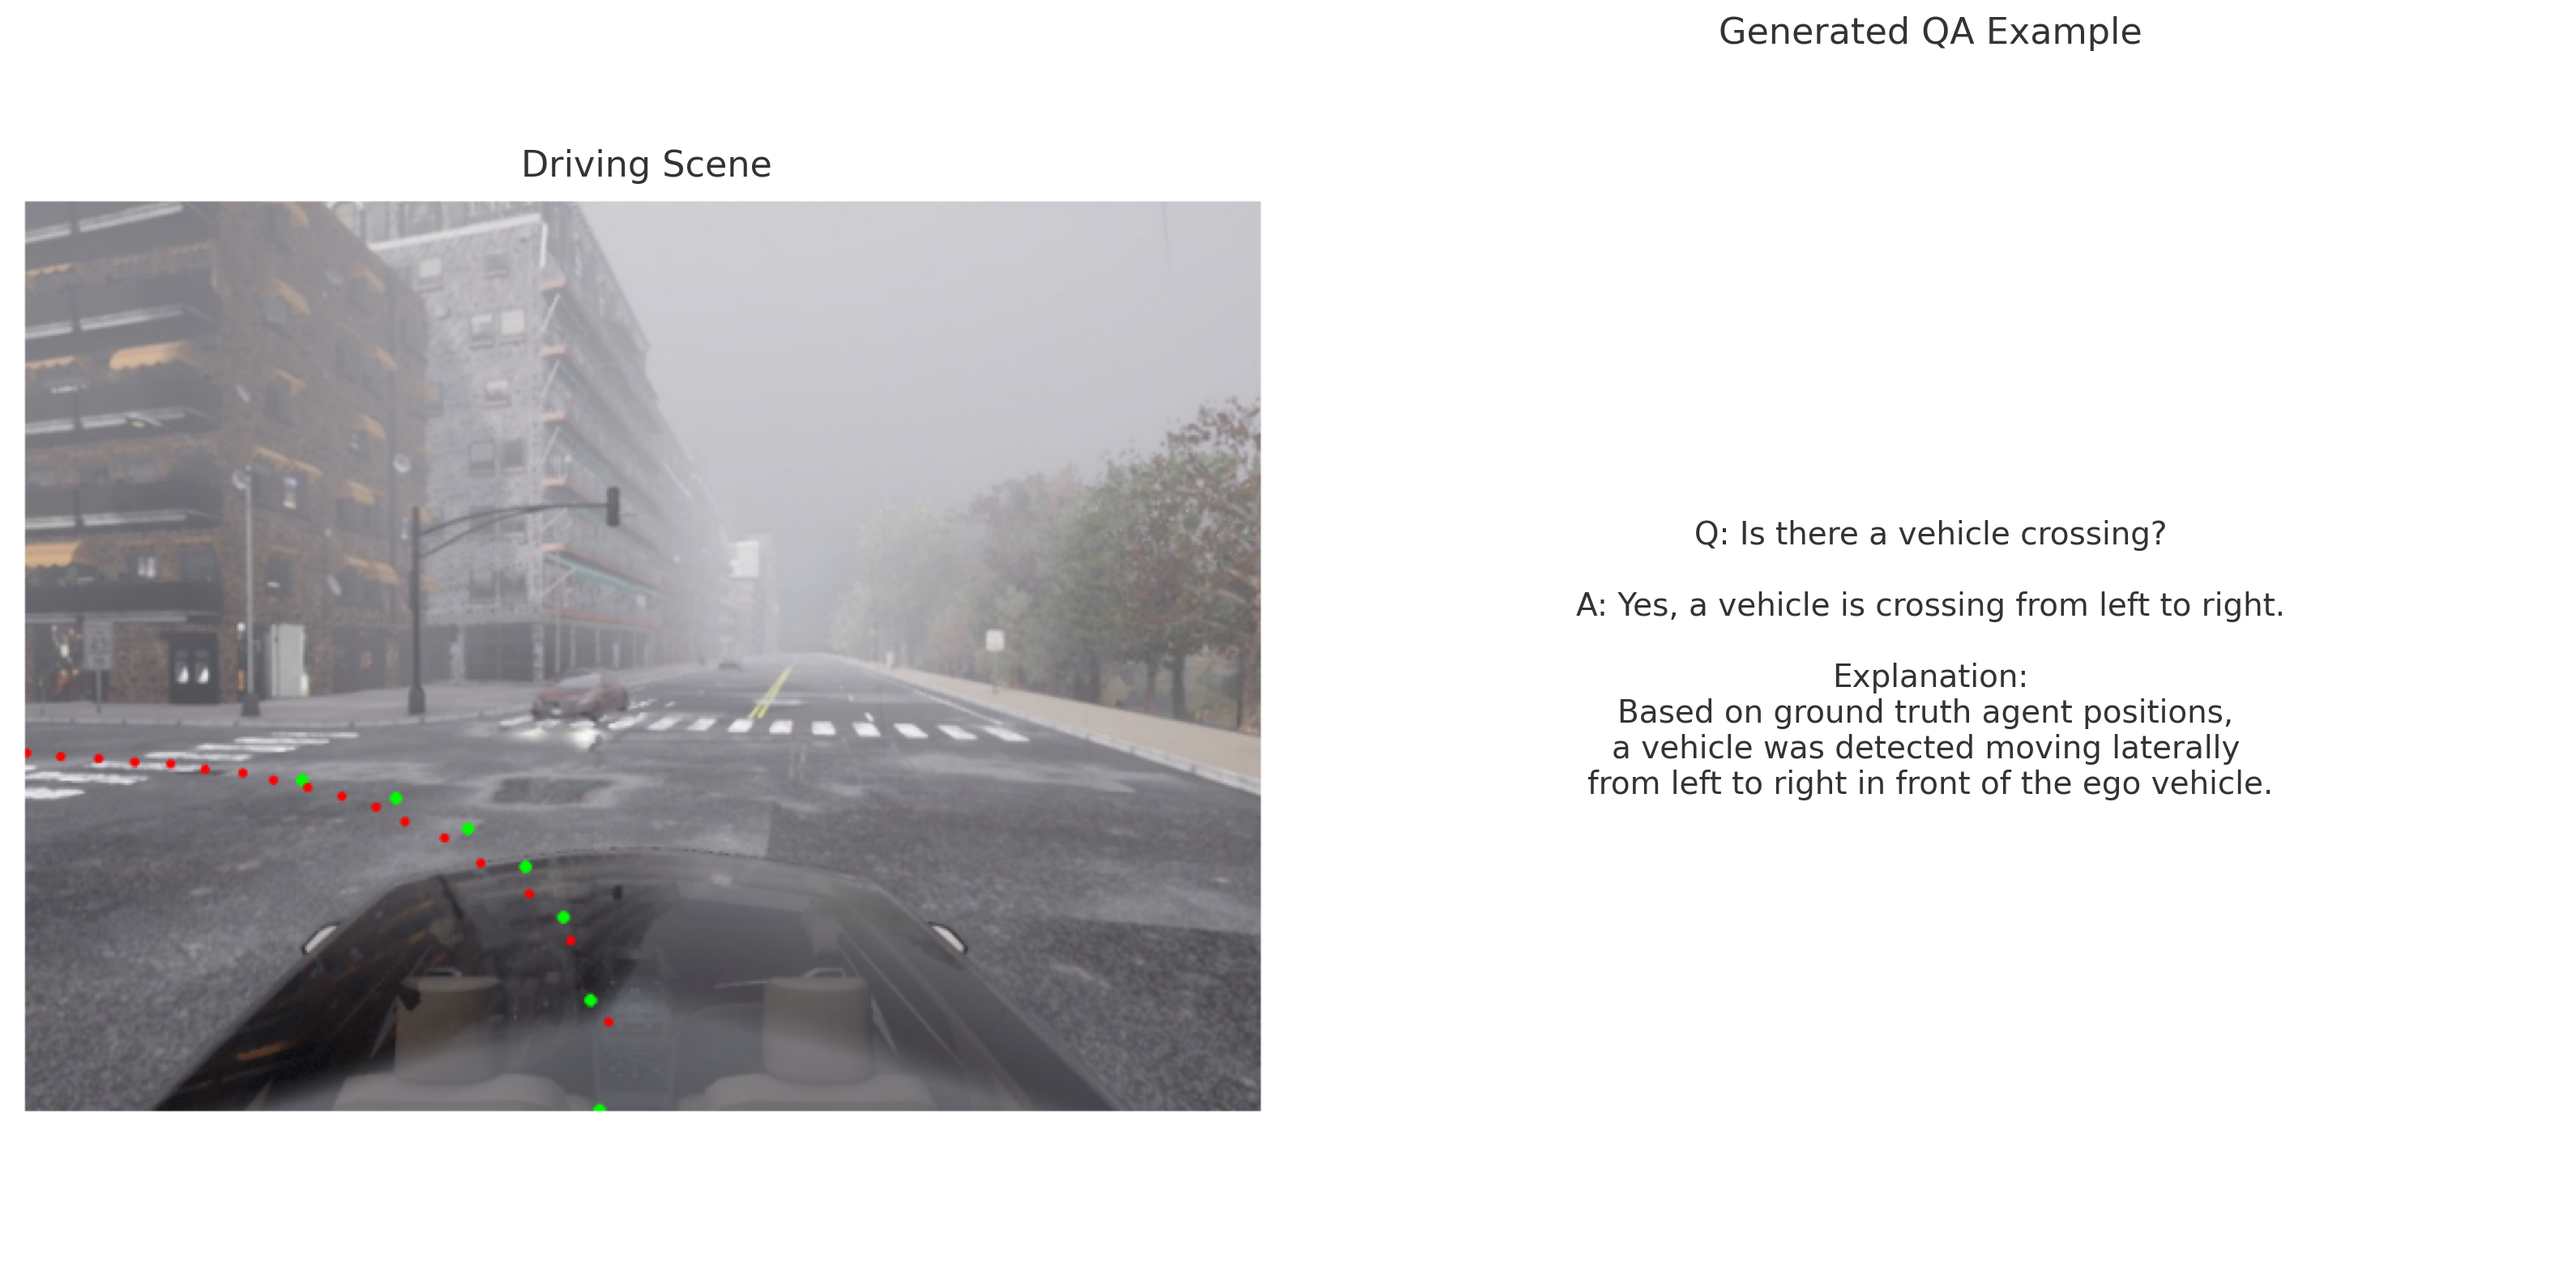
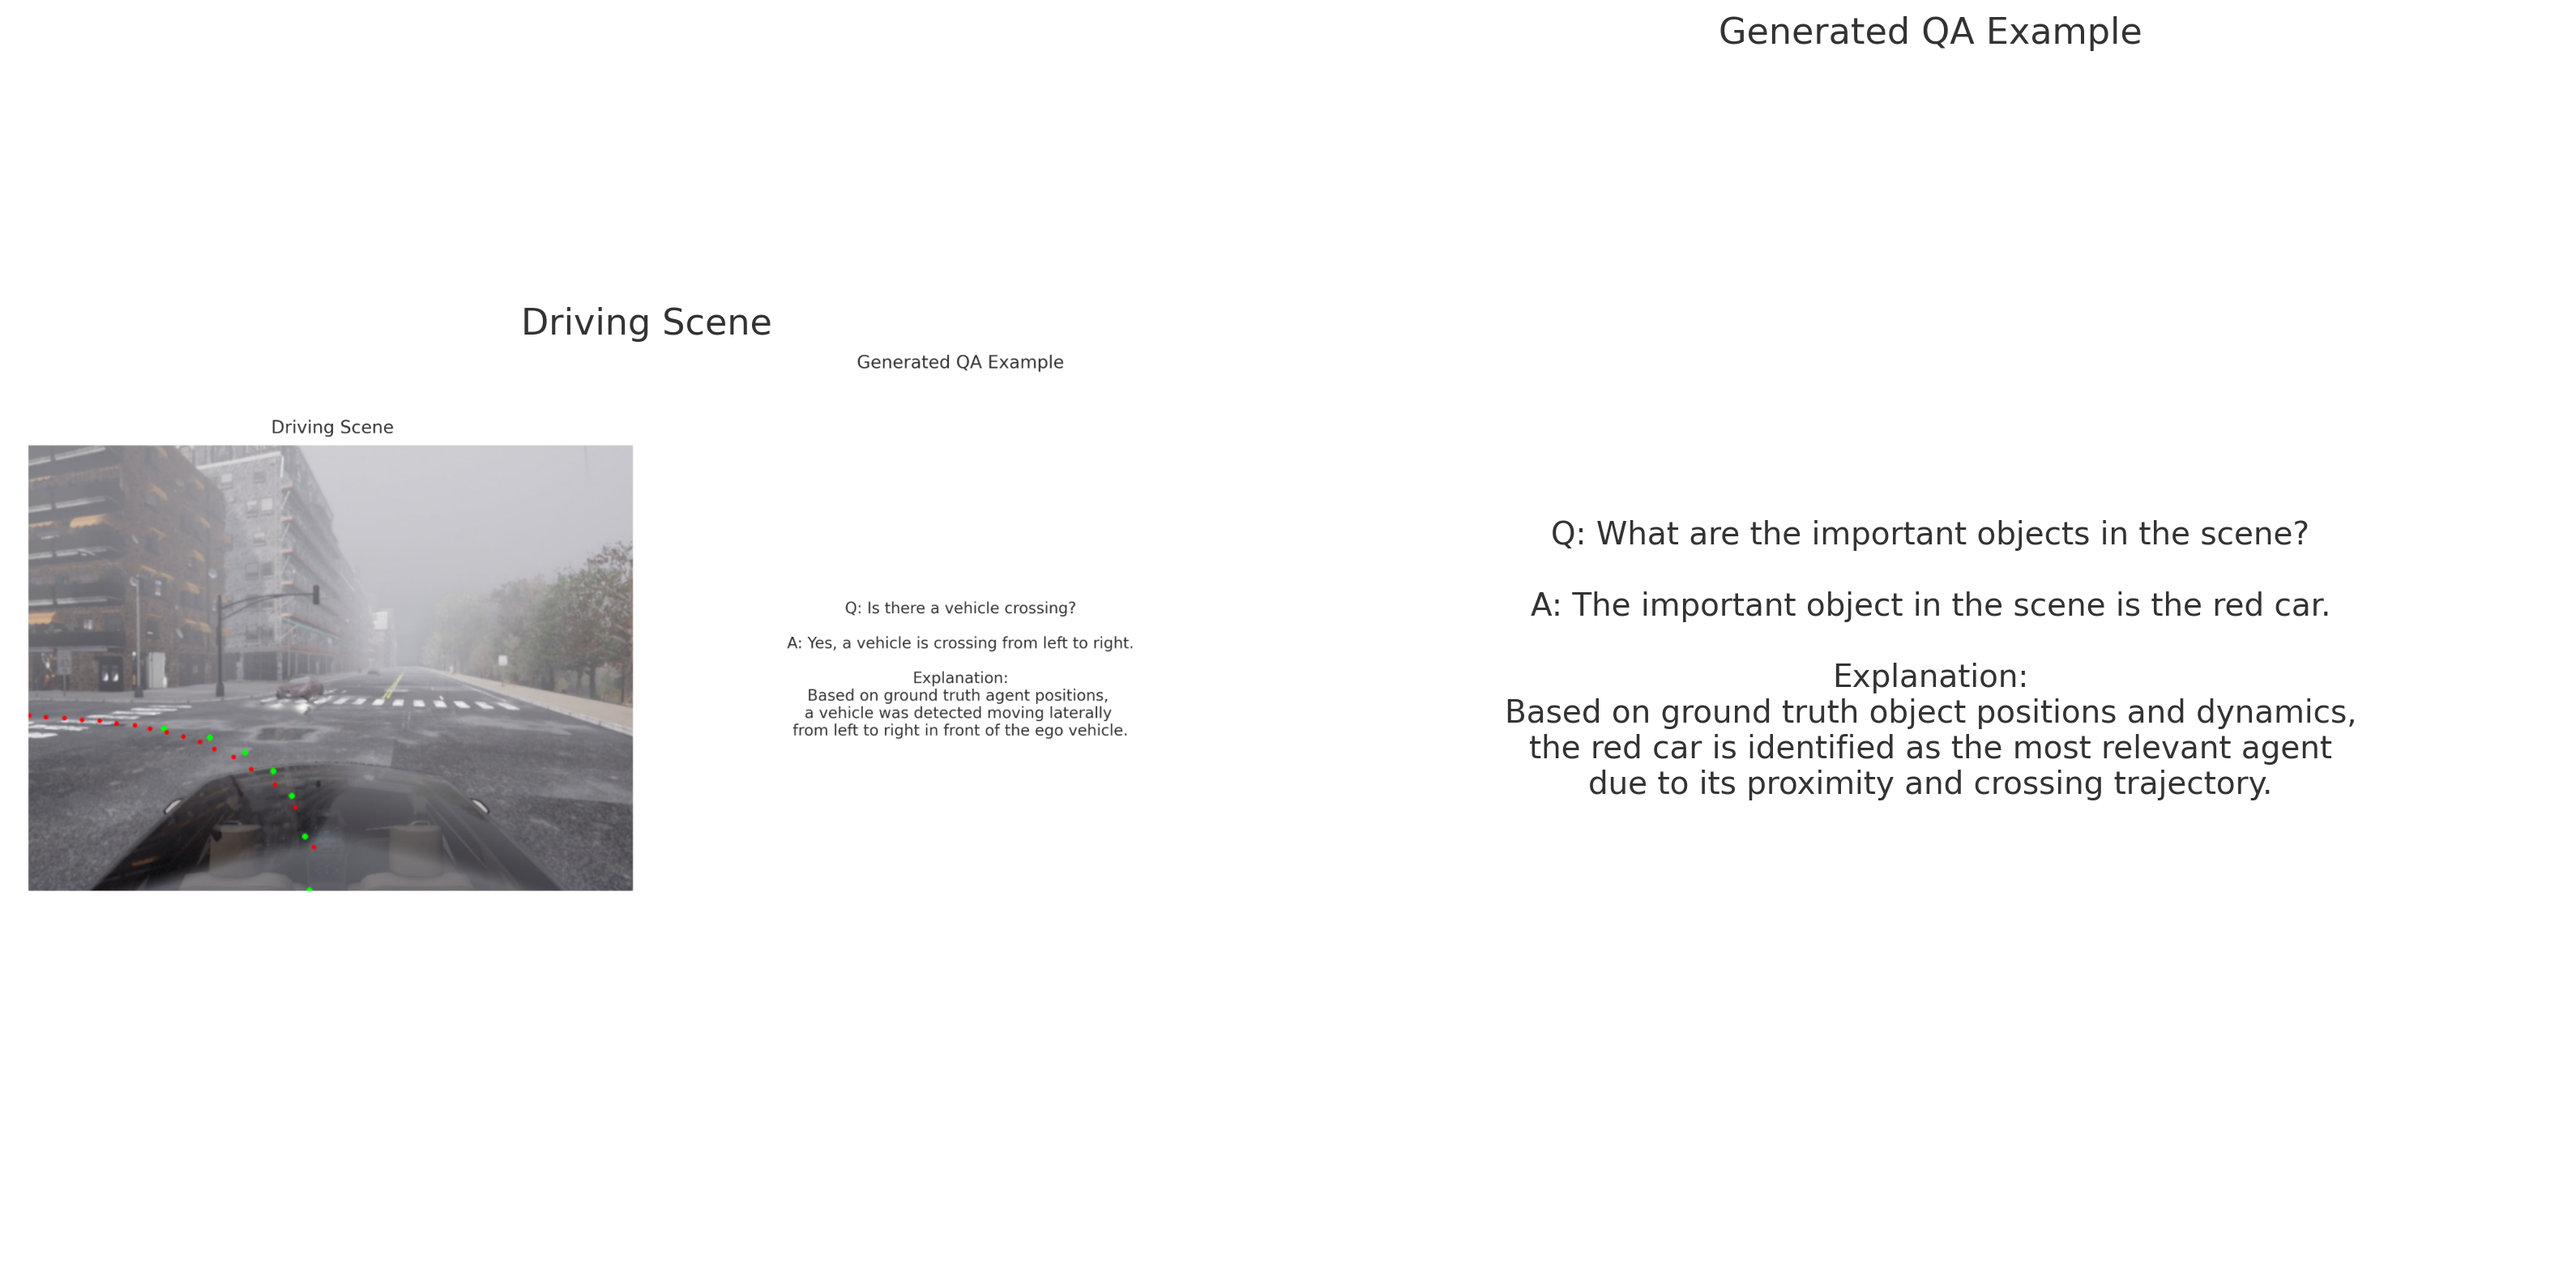
Update: readme mistakes fixed

diff --git a/README.md b/README.md
@@ -140,9 +140,13 @@ Directly generating the language instructions using a VLM fails. Ensuring the ac
 
 ![Example Data Visualization](assets/commentary.png)
 
-For question-answer pairs (see Figure below), specific world states are mapped to questions such as`Is there a vehicle crossing?`, with answers like `Yes, a vehicle is crossing from left to right`, based on the position and motion of surrounding agents.
+For question-answer pairs (see Figure below), specific world states are mapped to questions such as `What are the important objects in the scene?`, with answers like `The important object in the scene is the red car.`, based on the position and motion of surrounding agents. The wrongly generated QA without the ground truth was `Is there a vehicle crossing?` and `Yes, a vehicle is crossing from left to right`, which can be seen in the middle captions below.
 
 ![Example Data Visualization](assets/vqa.png)
+
+The data generation pipeline is shown below:
+
+![Example Data Visualization](assets/data_gen_pipeline.png)
 
 For commentary generation, multiple ground truth elements are combined into richer scene descriptions. This allows the creation of detailed, aligned video-language datasets at scale without manual labeling.
 
